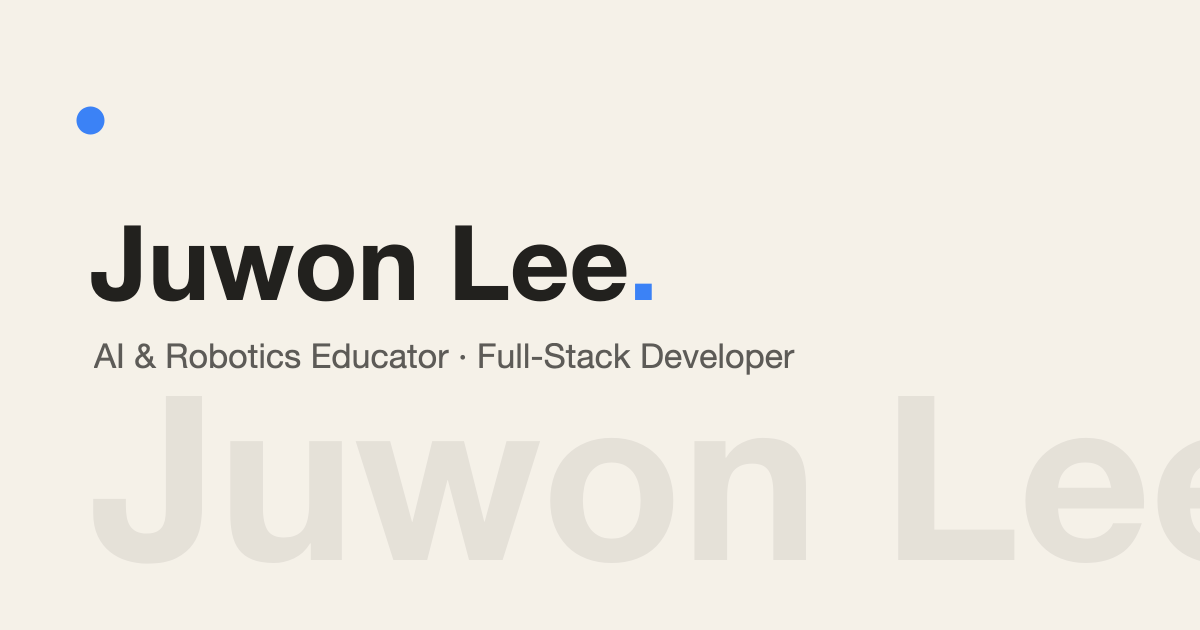
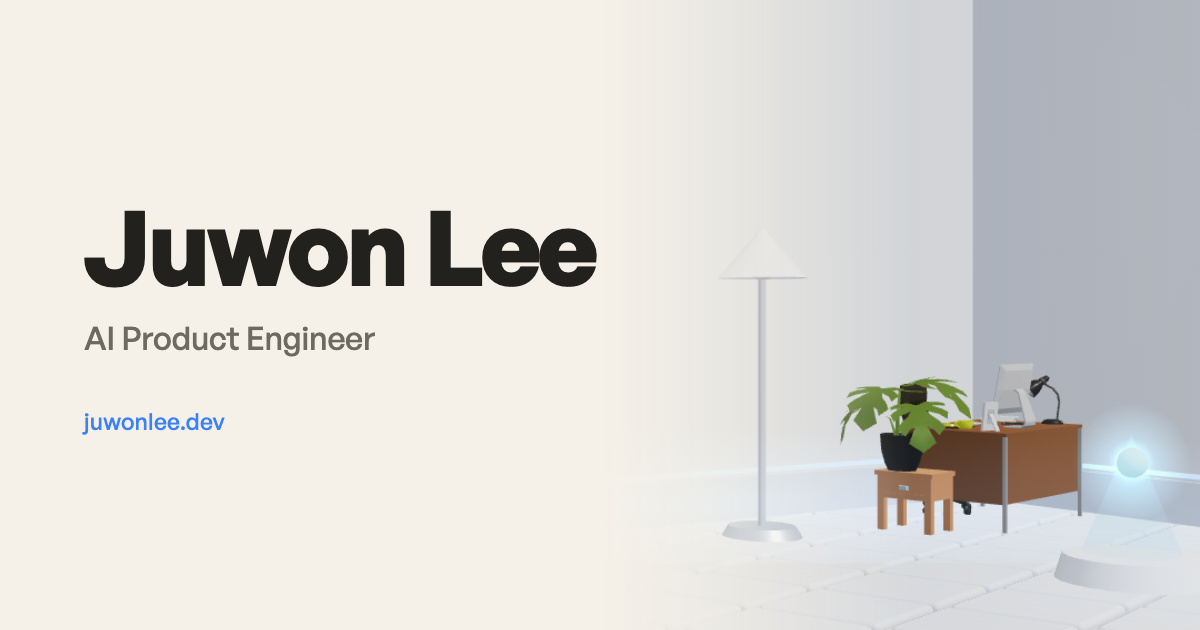
feat(seo): 기본 도메인을 juwonlee.dev 로 전환하고 OG 커버 갱신

diff --git a/app/layout.tsx b/app/layout.tsx
@@ -24,7 +24,7 @@ const generalSans = localFont({
 });
 
 export const metadata: Metadata = {
-  metadataBase: new URL("https://henna2022.github.io/portfolio"),
+  metadataBase: new URL("https://juwonlee.dev"),
   title: "Juwon Lee | AI Product Engineer",
   description:
     "Portfolio of Juwon Lee, an AI product engineer building systems end to end, from sensor to shipped product.",
@@ -62,8 +62,8 @@ const personJsonLd = {
   "@type": "Person",
   name: "Juwon Lee",
   alternateName: "이주원",
-  url: "https://henna2022.github.io/portfolio/",
-  image: "https://henna2022.github.io/portfolio/portfolio_images/profile/juwonlee.jpg",
+  url: "https://juwonlee.dev/",
+  image: "https://juwonlee.dev/portfolio_images/profile/juwonlee.jpg",
   jobTitle: "AI Product Engineer",
   worksFor: {
     "@type": "Organization",

diff --git a/app/work/[slug]/page.tsx b/app/work/[slug]/page.tsx
@@ -39,14 +39,14 @@ export default function ProjectPage({
     "@type": "CreativeWork",
     name: p.title,
     description: p.desc,
-    url: `https://henna2022.github.io/portfolio/work/${p.slug}/`,
+    url: `https://juwonlee.dev/work/${p.slug}/`,
     author: {
       "@type": "Person",
       name: "Juwon Lee",
-      url: "https://henna2022.github.io/portfolio/",
+      url: "https://juwonlee.dev/",
     },
     ...(p.image
-      ? { image: `https://henna2022.github.io/portfolio${p.image}` }
+      ? { image: `https://juwonlee.dev${p.image}` }
       : {}),
   };
 

diff --git a/app/sitemap.ts b/app/sitemap.ts
@@ -1,7 +1,7 @@
 import type { MetadataRoute } from "next";
 import { projects } from "@/lib/data";
 
-const BASE = "https://henna2022.github.io/portfolio";
+const BASE = "https://juwonlee.dev";
 
 // 정적 export 용 sitemap.xml 생성
 export const dynamic = "force-static";
